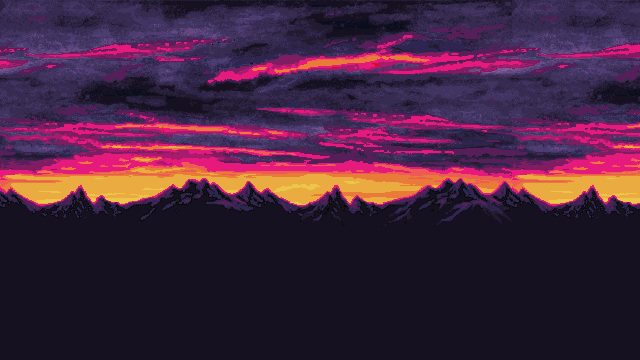
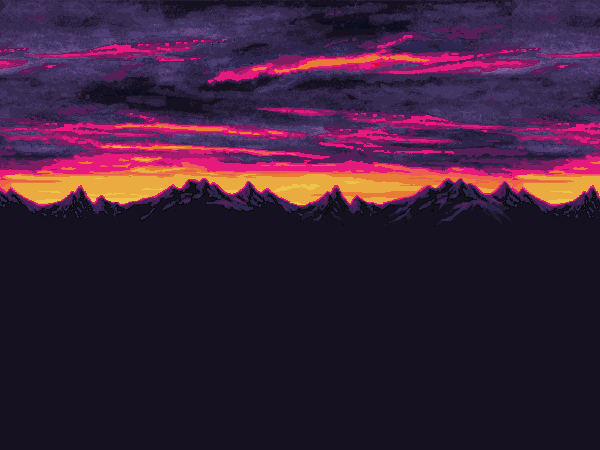
Game now runs at 600x450
This is suposed to be the resolution that the JPanel is by default
in the AP Java Arcade. The actual resolution is slightly off.

diff --git a/src/Game.java b/src/Game.java
@@ -13,6 +13,8 @@ import java.io.IOException;
 
 import java.util.ArrayList;
 
+import javafx.scene.media.AudioClip;
+
 import javax.imageio.ImageIO;
 import javax.swing.JPanel;
 import javax.swing.Timer;
@@ -162,7 +164,9 @@ public class Game extends JPanel implements JavaArcade, KeyListener, ActionListe
     }
 
     //  Audio
+    private AudioClip currentSong;
 
+    //private void changeSong(
 
     // Processing
     //  Ticker
@@ -190,22 +194,33 @@ public class Game extends JPanel implements JavaArcade, KeyListener, ActionListe
 
     //  AssetManager
 
-    public static Image loadSprite(String name)
+    public static Image loadSprite(String filename)
     {
         Image sprite;
         try
         {
-            sprite = ImageIO.read(new File("assets", name));
+            sprite = ImageIO.read(stringToFile(filename));
             return sprite;
         }
         catch(IOException e)
         {
-            System.out.println("FATAL: Could not load sprite \"" + name + "\".");
+            System.out.println("FATAL: Could not load sprite \"" + filename + "\".");
             System.exit(0);
         }
 
         // This can never happen, but is needed prevent a compiler error.
         return null;
+    }
+
+    public static AudioClip loadAudio(String filename)
+    {
+        // Stub
+        return null;
+    }
+
+    private static File stringToFile(String filename)
+    {
+        return new File("assets", filename);
     }
 
     /* Note: apparently Image.getWidth(), and getHeight() can return -1 if not

diff --git a/src/GameLogic.java b/src/GameLogic.java
@@ -4,8 +4,8 @@ import java.util.ArrayList;
 
 public class GameLogic
 {
-    public final static int WIDTH  = 640;
-    public final static int HEIGHT = 360;
+    public final static int WIDTH  = 600;
+    public final static int HEIGHT = 450;
 
     private ArrayList<Renderable> renderables;
     private ArrayList<Entity> entities;

diff --git a/src/SwingRenderInfo.java b/src/SwingRenderInfo.java
@@ -47,8 +47,6 @@ public class SwingRenderInfo extends RenderInfo
 
     private int convertY(double y)
     {
-        //return convertX(GameLogic.HEIGHT - y);
-
         double ret = y;
         // Account for the fact that Image's origin in on the top
         ret += Game.getHeightOfSprite(sprite);
